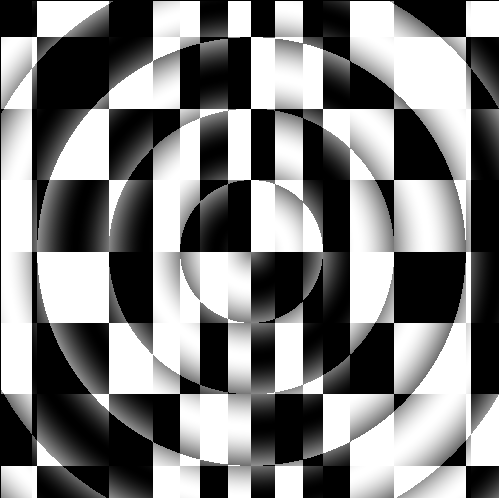
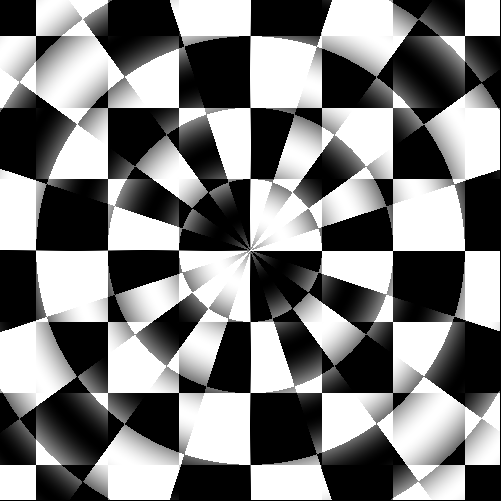
Fix bug in atan computation

diff --git a/filab.js b/filab.js
@@ -192,7 +192,7 @@ function FIControlPoint(withconstant) {
 			case 0 : return coord[0];
 			case 1 : return coord[1];
 			case 2 : return Math.hypot(coord[0],coord[1]);
-			case 3 : return Math.atan(coord[0],coord[1]);
+			case 3 : return Math.atan2(coord[1],coord[0]);
 			case 4 : return constant;
 		}
 	}
@@ -1125,7 +1125,7 @@ function FIWarpPolar() {
 		var coord = self.getProvider(0).getPoint(_context);
 
 		var x = Math.sqrt(coord[0]*coord[0] + coord[1]*coord[1]);
-		var y = Math.atan(coord[0],coord[1]);
+		var y = Math.atan2(coord[1],coord[0]);
 
 		return [x,y];
 	}
@@ -1150,7 +1150,7 @@ function FIWarpRadial() {
 		var coord = self.getProvider(0).getPoint(_context);
 
 		var dist = Math.sqrt(coord[0]*coord[0] + coord[1]*coord[1]);
-		var angle = Math.atan(coord[0],coord[1]);
+		var angle = Math.atan2(coord[1],coord[0]);
 	
 		dist = Math.atan(2*Math.PI*dist/10);
 		
@@ -1202,7 +1202,7 @@ function FIWarpRotate() {
 		var coord = self.getProvider(0).getPoint(_context);
 
 		var dist = Math.sqrt(coord[0]*coord[0] + coord[1]*coord[1]);
-		var angle = Math.atan(coord[0],coord[1]);
+		var angle = Math.atan2(coord[1],coord[0]);
 
 		angle += Math.PI*self.getControl(0).getValue()/180;
 
